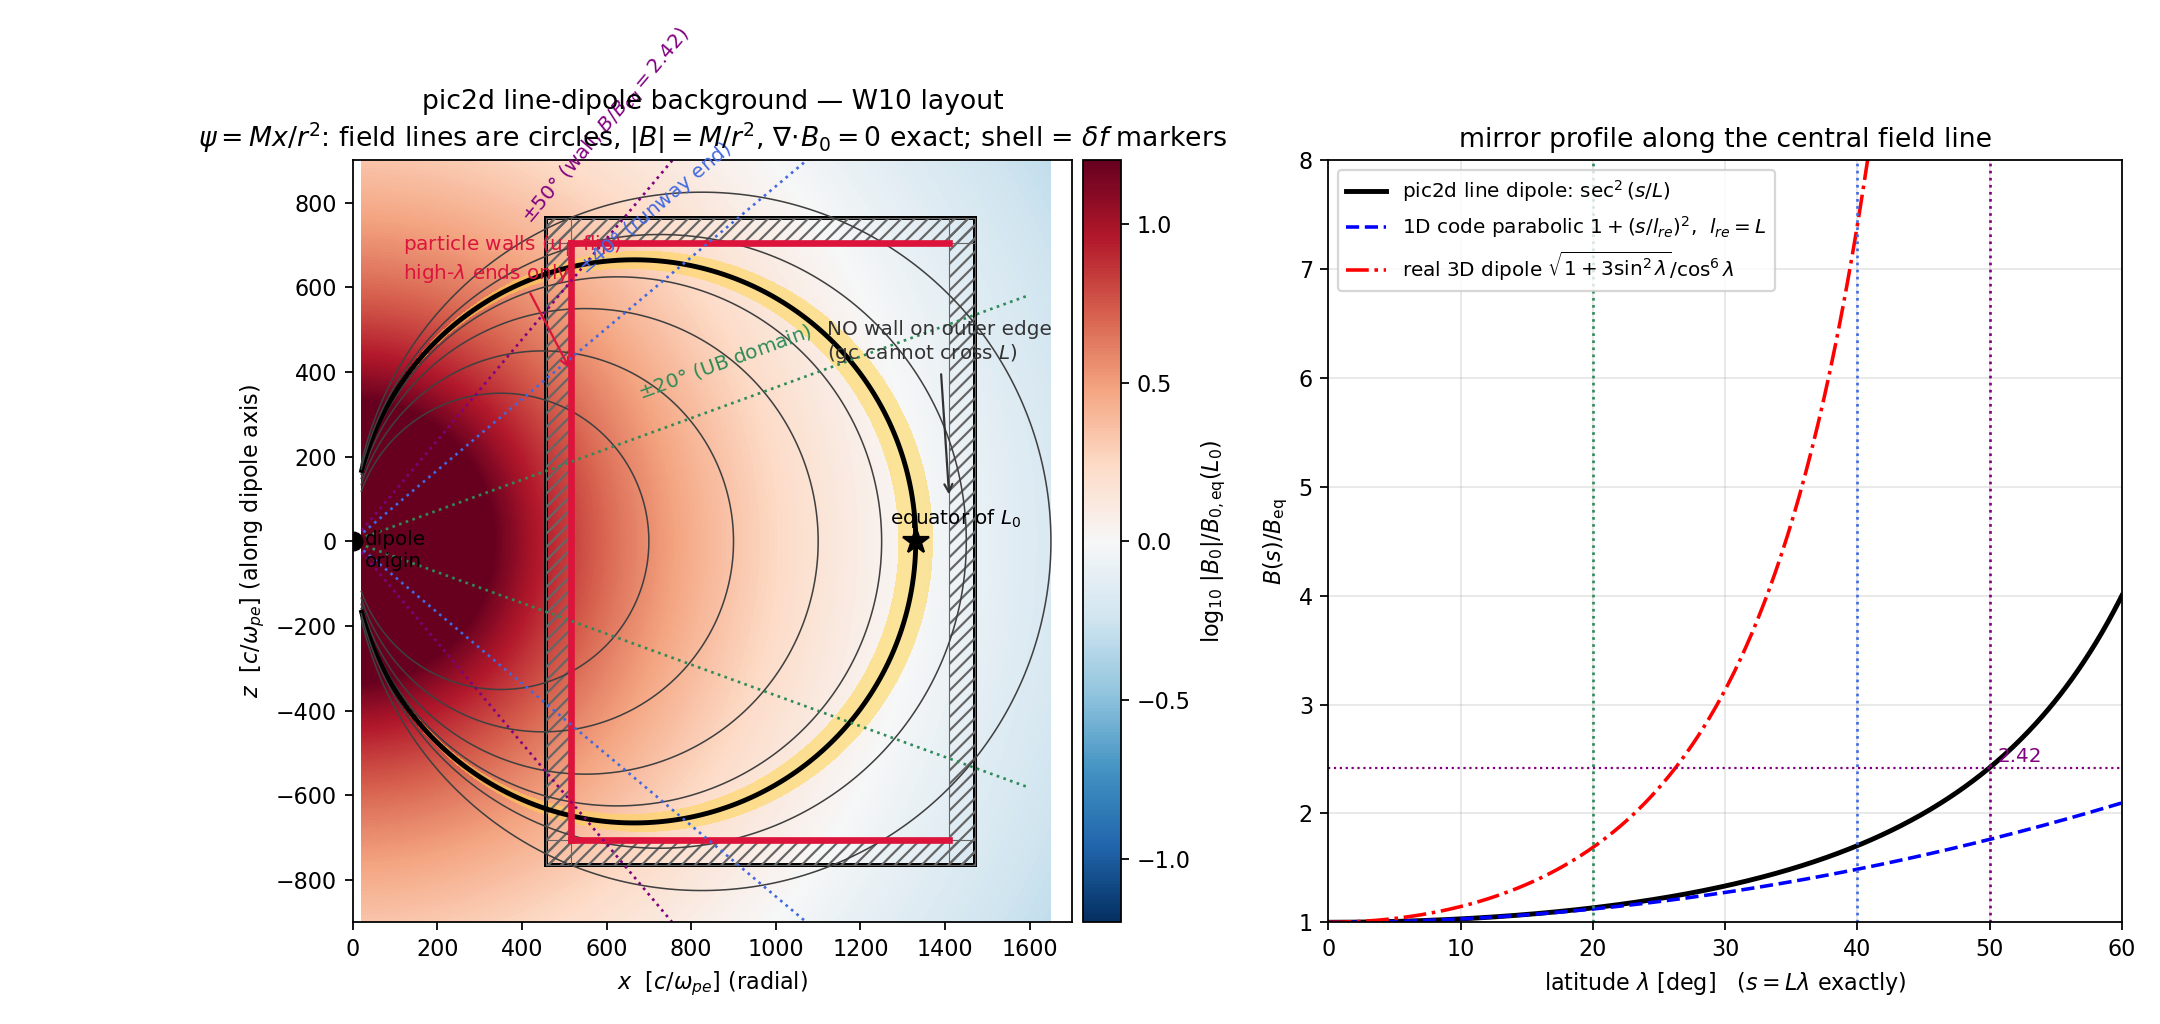
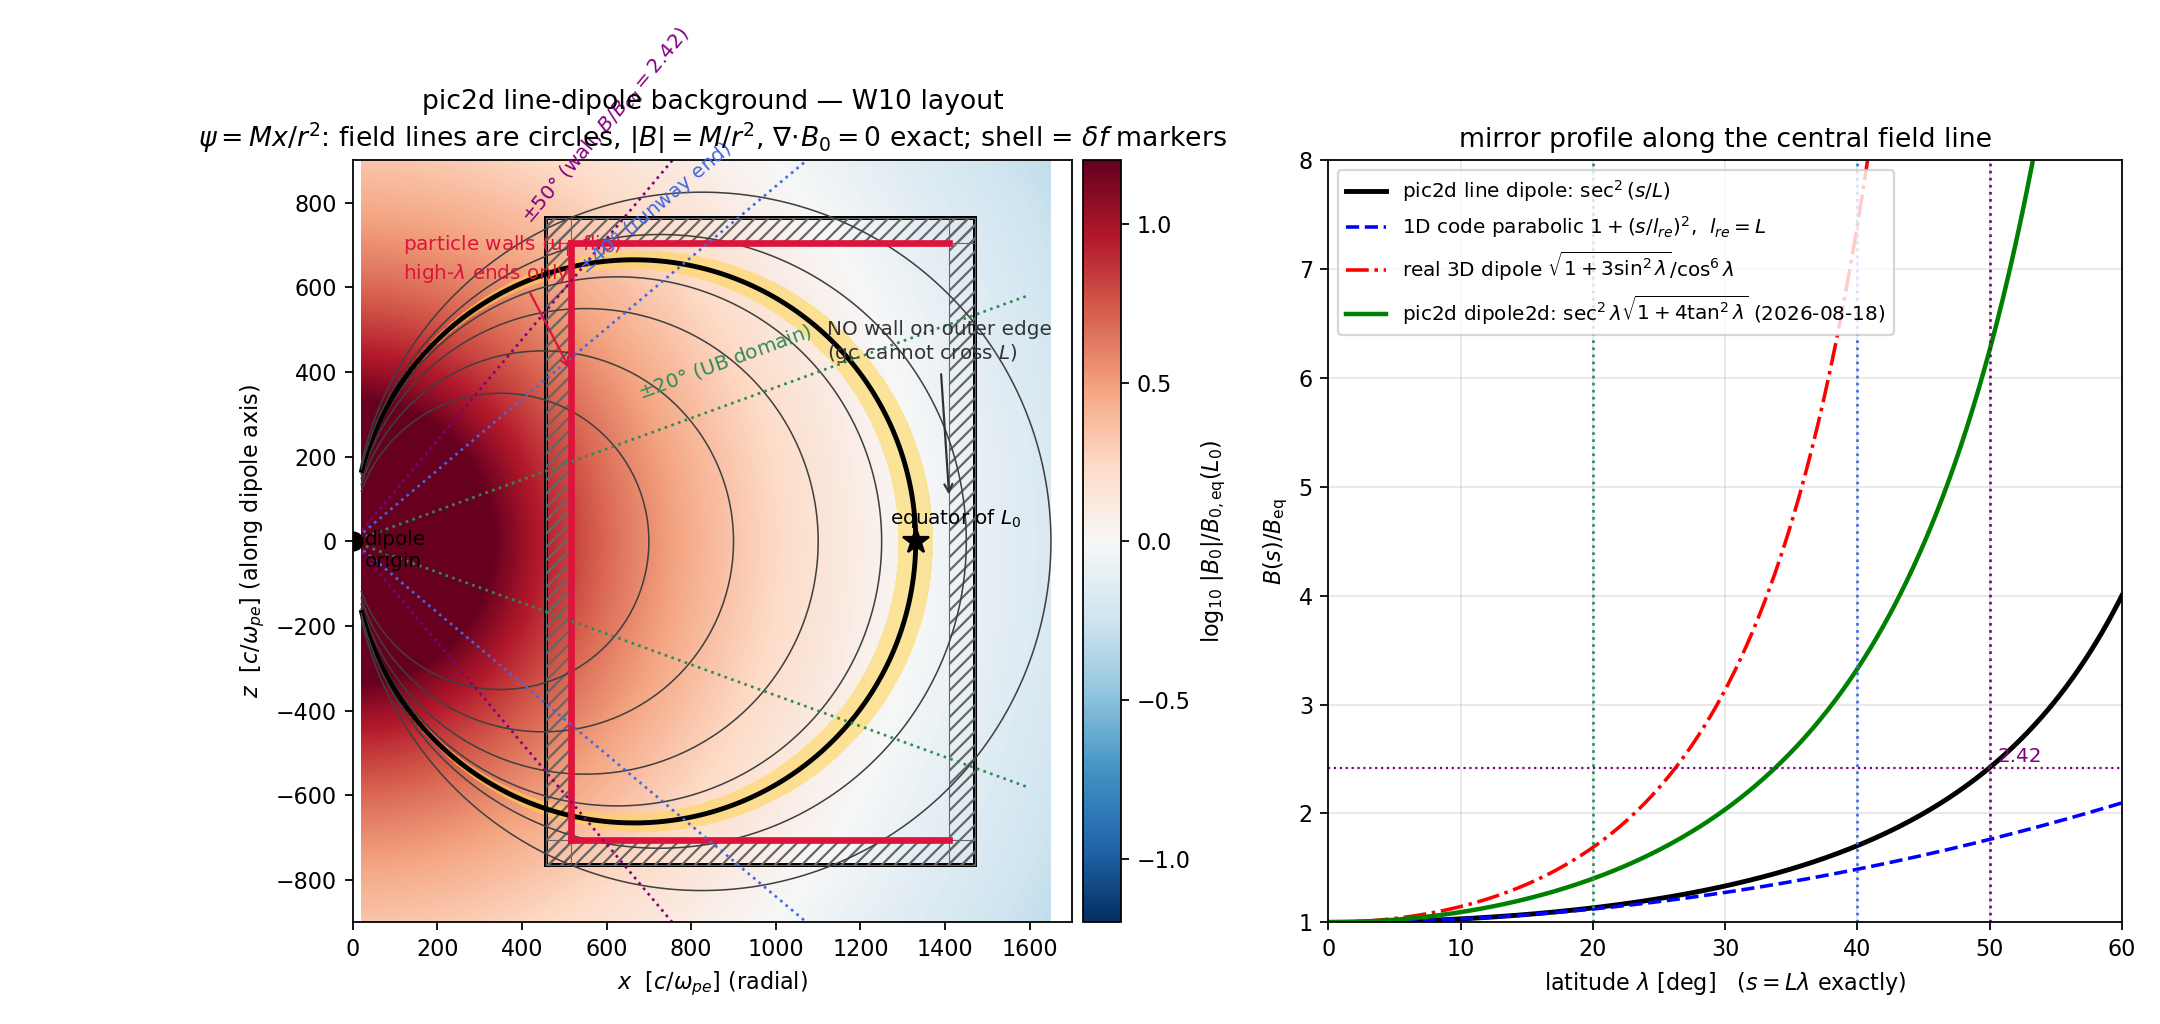
2d-reborn: dipole2d background — true 3D-dipole line shapes, V0 17/17
User direction (2026-08-18): follow the most correct physics, curvature
closer to reality, production = full-f (literature sims are calibration
references, not truth).

dipole2d: psi = (B0eq L0^3/2) x^4/r^6 = g(L), L = r^3/x^2 — level curves
ARE the real dipole's meridional shapes r = L cos^2(lam) (equatorial
curvature radius L/3, not the circle's L/2); along-line mirror profile
B/Beq = sec^2(lam) sqrt(1+4 tan^2(lam)), within ~5% of the true dipole
for lam <= 45 deg (the circle was ~40% low at 30 deg); Beq(L) = B0eq
(L0/L)^3, the real radial scaling. Exactly 2D-solenoidal; carries a
distributed supporting current (Ke-slab precedent; B0 is force-only).

Geometry now profile-dispatched (lshell_of/beq_of/mirror_ratio_of/
line_point_of/arc_s_of) through loader, deck gates, diagnostics line.
V0 extended: 17/17 — on-line |B| formula exact to 1.6e-15, Beq~L^-3
exact, mu secular 4.8e-5, bounce period vs true-metric quadrature
5.4e-5; same 55-deg pitch angle now mirrors at 21.9 deg vs the circle's
35 deg (the realism upgrade, quantified). V4d full-f deck staged
(pre-flight PASS, 4.3 GB).

Claude-Session: https://claude.ai/code/session_01Kcuo25CtyQkYg8oc31o9um

diff --git a/include/pic2d/background2d.hpp b/include/pic2d/background2d.hpp
@@ -44,7 +44,17 @@
 
 namespace arc2d {
 
-enum class B0Prof : int { uniform = 0, tilted = 1, kemirror = 2, linedipole = 3 };
+enum class B0Prof : int { uniform = 0, tilted = 1, kemirror = 2, linedipole = 3,
+                          dipole2d = 4 };
+// dipole2d (2026-08-18 realism upgrade, user-directed): flux function
+//     ψ = (B0eq L0³/2) · x⁴/r⁶  =  g(L),  L = r³/x²,
+// whose level curves ARE the real 3D dipole's meridional line shapes
+// r = L cos²λ (equatorial curvature radius L/3, not the circle's L/2).
+// Along a line: B/B_eq = sec²λ·√(1+4tan²λ) — within ~5% of the true
+// dipole √(1+3sin²λ)/cos⁶λ for λ ≤ 45° (the circle was ~40% low), and
+// B_eq(L) = B0eq (L0/L)³, the real radial scaling. Exactly 2D-solenoidal;
+// NOT curl-free (a distributed supporting current, as in Ke's slab
+// mirror) — harmless: B0 is force-only, the wave equations never see it.
 
 // POD, copied by value into kernels (repo Views pattern).
 struct Background2D {
@@ -72,6 +82,17 @@ ARC2D_HD inline Vec2<Real> b0_field(const Background2D& bg, Real x, Real z) {
             const Real ir4 = Real(1) / (r2 * r2);
             return { Real(-2.0 * bg.M) * x * z * ir4,
                      Real(bg.M) * (x * x - z * z) * ir4 };
+        }
+        case B0Prof::dipole2d: {
+            // ψ = C x⁴/r⁶, C = B0eq L0³/2:
+            // Bx = ∂ψ/∂z = −6C x⁴ z / r⁸ ;  Bz = −∂ψ/∂x = C x³(2x²−4z²)/r⁸
+            // (signs fixed so Bz(eq) = +B0eq(L0/x)³, matching linedipole)
+            const Real r2 = x * x + z * z;
+            const Real ir8 = Real(1) / (r2 * r2 * r2 * r2);
+            const Real C = Real(0.5 * bg.B0eq * bg.L0 * bg.L0 * bg.L0);
+            const Real x3 = x * x * x;
+            return { Real(-6) * C * x3 * x * z * ir8,
+                     C * x3 * (Real(2) * x * x - Real(4) * z * z) * ir8 };
         }
         case B0Prof::kemirror: {
             const Real xt = x - Real(bg.xc), zt = z - Real(bg.zc);
@@ -161,6 +182,68 @@ ARC2D_HD inline void line_point(double L, double lambda, double& x, double& z) {
     const double c = std::cos(lambda);
     x = L * c * c;
     z = L * c * std::sin(lambda);
+}
+
+// ---- profile-dispatched field-line geometry (linedipole | dipole2d) -------
+// Every consumer (loader ζ-mapping, deck gates, diagnostics line) goes
+// through these; adding a background member means extending them, nothing
+// else.
+
+ARC2D_HD inline bool has_lines(const Background2D& bg) {
+    return B0Prof(bg.prof) == B0Prof::linedipole ||
+           B0Prof(bg.prof) == B0Prof::dipole2d;
+}
+
+template <typename Real>
+ARC2D_HD inline Real lshell_of(const Background2D& bg, Real x, Real z) {
+    const Real r2 = x * x + z * z;
+    if (B0Prof(bg.prof) == B0Prof::dipole2d)
+        return r2 * Real(std::sqrt(double(r2))) / (x * x);   // L = r³/x²
+    return r2 / x;                                           // circle: L = r²/x
+}
+
+ARC2D_HD inline double beq_of(const Background2D& bg, double L) {
+    if (B0Prof(bg.prof) == B0Prof::dipole2d) {
+        const double q = bg.L0 / L;
+        return bg.B0eq * q * q * q;               // real L⁻³ scaling
+    }
+    return bg.M / (L * L);
+}
+
+ARC2D_HD inline double mirror_ratio_of(const Background2D& bg, double lam) {
+    const double c = std::cos(lam), t = std::tan(lam);
+    if (B0Prof(bg.prof) == B0Prof::dipole2d)
+        return std::sqrt(1.0 + 4.0 * t * t) / (c * c);
+    return 1.0 / (c * c);
+}
+
+ARC2D_HD inline void line_point_of(const Background2D& bg, double L, double lam,
+                                   double& x, double& z) {
+    const double c = std::cos(lam);
+    if (B0Prof(bg.prof) == B0Prof::dipole2d) {
+        x = L * c * c * c;                        // r = L cos²λ (true dipole shape)
+        z = L * c * c * std::sin(lam);
+    } else {
+        x = L * c * c;
+        z = L * c * std::sin(lam);
+    }
+}
+
+// arc length along the line from the equator to λ (host; Simpson)
+inline double arc_s_of(const Background2D& bg, double L, double lam) {
+    const int n = 64;
+    double s = 0;
+    for (int i = 0; i < n; ++i) {
+        const double a = lam * i / n, b = lam * (i + 1) / n, m = 0.5 * (a + b);
+        auto ds = [&](double u) {
+            const double c = std::cos(u);
+            if (B0Prof(bg.prof) == B0Prof::dipole2d)
+                return L * c * std::sqrt(1.0 + 3.0 * (1 - c * c));
+            return L;                             // circle: ds = L dλ exactly
+        };
+        s += (b - a) / 6.0 * (ds(a) + 4.0 * ds(m) + ds(b));
+    }
+    return s;
 }
 
 }  // namespace arc2d

diff --git a/include/pic2d/deck2d.hpp b/include/pic2d/deck2d.hpp
@@ -145,6 +145,7 @@ inline Deck2D load_deck2d(const std::string& path) {
     const std::string prof = gets(m, "background", "profile", "linedipole");
     if      (prof == "linedipole") d.bg.prof = int(B0Prof::linedipole);
     else if (prof == "kemirror")   d.bg.prof = int(B0Prof::kemirror);
+    else if (prof == "dipole2d")   d.bg.prof = int(B0Prof::dipole2d);
     else if (prof == "tilted")     d.bg.prof = int(B0Prof::tilted);
     else if (prof == "uniform")    d.bg.prof = int(B0Prof::uniform);
     else throw std::runtime_error("deck2d: unknown profile " + prof);
@@ -202,13 +203,13 @@ inline void finalize_deck2d(Deck2D& d) {
     char buf[256];
 
     // ---- box from geometry (linedipole): shell ± absorber ± margin ----
-    if (B0Prof(d.bg.prof) == B0Prof::linedipole) {
+    if (has_lines(d.bg)) {
         double dLmax = 0;
         for (const auto& s : d.species) dLmax = std::max(dLmax, s.shell_dL);
         const double Lin  = d.bg.L0 - 0.5 * dLmax - d.margin;
         const double Lout = d.bg.L0 + 0.5 * dLmax + d.margin;
         double xw, zw;                       // innermost point: high-λ end of Lin
-        line_point(Lin, d.lam_w, xw, zw);
+        line_point_of(d.bg, Lin, d.lam_w, xw, zw);
         d.x0 = std::max(10.0 * d.dx, xw - d.margin);
         d.x1 = Lout + d.margin;
         d.z1 = 0.5 * Lout + d.margin;        // max z on a line is L/2 (at λ=45°)
@@ -230,7 +231,7 @@ inline void finalize_deck2d(Deck2D& d) {
     // §1.2.2): (a) UB — band_max at target WNA, evaluated at the local Ωe
     // of the UB domain |λ| ≤ target_lam; (b) LB corridor — 0.55 Ωe at 30°,
     // out to the runway edge.
-    const double wce_ub = d.bg.B0eq * mirror_ratio(std::min(d.target_lam, d.runway_lam));
+    const double wce_ub = d.bg.B0eq * mirror_ratio_of(d.bg, std::min(d.target_lam, d.runway_lam));
     const double k_ub = detail::whistler_k(d.target_band_max, wce_ub, d.cspeed) /
                         std::cos(d.target_wna);
     const double cpl_ub = 2.0 * M_PI / (k_ub * std::max(d.dx, d.dz));
@@ -240,7 +241,7 @@ inline void finalize_deck2d(Deck2D& d) {
                   d.target_wna * 180 / M_PI, k_ub);
     gate("res/UB", cpl_ub >= 8.0, true, buf);
 
-    const double wce_rw = d.bg.B0eq * mirror_ratio(d.runway_lam);
+    const double wce_rw = d.bg.B0eq * mirror_ratio_of(d.bg, d.runway_lam);
     const double k_lb = detail::whistler_k(0.55, wce_rw, d.cspeed) /
                         std::cos(30.0 * M_PI / 180.0);
     const double cpl_lb = 2.0 * M_PI / (k_lb * std::max(d.dx, d.dz));
@@ -272,8 +273,8 @@ inline void finalize_deck2d(Deck2D& d) {
 
     // ---- absorber strictly outside the runway ---------------------------
     const double absorber_arc = d.absorber_cells * std::max(d.dx, d.dz);
-    const double runway_end_s = d.bg.L0 * d.runway_lam;
-    const double wall_s       = d.bg.L0 * d.lam_w;
+    const double runway_end_s = arc_s_of(d.bg, d.bg.L0, d.runway_lam);
+    const double wall_s       = arc_s_of(d.bg, d.bg.L0, d.lam_w);
     std::snprintf(buf, sizeof buf, "runway ends s=%.0f, wall s=%.0f, absorber %.0f",
                   runway_end_s, wall_s, absorber_arc);
     gate("absorber", runway_end_s + absorber_arc <= wall_s, true, buf);
@@ -296,7 +297,7 @@ inline void finalize_deck2d(Deck2D& d) {
 inline void print_deck2d_report(const Deck2D& d, std::FILE* out = stdout) {
     std::fprintf(out, "pic2d deck report\n");
     std::fprintf(out, "  geometry : L0 = %.1f (l_re), λ_w = %.1f°, mirror ratio at wall %.2f\n",
-                 d.bg.L0, d.lam_w * 180 / M_PI, mirror_ratio(d.lam_w));
+                 d.bg.L0, d.lam_w * 180 / M_PI, mirror_ratio_of(d.bg, d.lam_w));
     std::fprintf(out, "  box      : x [%.0f, %.0f]  z [%.0f, %.0f]  (%d × %d cells, dx %.2f dz %.2f)\n",
                  d.x0, d.x1, d.z0, d.z1, d.nx, d.nz, d.dx, d.dz);
     std::fprintf(out, "  plasma   : ωpe/Ωe(eq) = %.2f, c = %.1f, cold nc = %.3f (%s fluid)\n",

diff --git a/include/pic2d/kinetic2d.hpp b/include/pic2d/kinetic2d.hpp
@@ -147,13 +147,13 @@ __host__ __device__ inline void gc_pos(float x, float z, float uy, float gam,
 __host__ __device__ inline float density_factor(float x, float z, float uy,
                                                 float gam, const KineticCfg& c,
                                                 const Background2D& bg) {
-    if (B0Prof(bg.prof) != B0Prof::linedipole)
+    if (!has_lines(bg))
         return 1.f;                     // uniform/tilted arms: no shell, ζ = 1
     float xg, zg;
     gc_pos(x, z, uy, gam, c, bg, xg, zg);
-    const float Lg = lshell(xg, zg);
-    const float L = lshell(x, z);
-    const float Beq = float(bg.M) / (L * L);
+    const float Lg = lshell_of<float>(bg, xg, zg);
+    const float L = lshell_of<float>(bg, x, z);
+    const float Beq = float(beq_of(bg, L));
     const float b = b0_abs<float>(bg, x, z) / Beq;
     const float Aeq = c.tperp / c.tpar - 1.f;
     const float zeta = 1.f + Aeq * (1.f - 1.f / b);
@@ -200,9 +200,9 @@ static __global__ void k_load(MarkerViews p, KineticCfg c, Background2D bg,
     }
     p.x[i] = x; p.z[i] = z;
     float zeta = 1.f;                   // uniform/tilted arms: no mapping
-    if (B0Prof(bg.prof) == B0Prof::linedipole) {
-        const float L = lshell(x, z);
-        const float Beq = float(bg.M) / (L * L);
+    if (has_lines(bg)) {
+        const float L = lshell_of<float>(bg, x, z);
+        const float Beq = float(beq_of(bg, L));
         const float b = b0_abs<float>(bg, x, z) / Beq;
         zeta = 1.f + (c.tperp / c.tpar - 1.f) * (1.f - 1.f / b);
     }
@@ -276,11 +276,10 @@ static __global__ void k_push_deposit(MarkerViews p, KineticCfg c,
         // gc-form weight equation (header ruling): wave-only, ∂_L dropped;
         // uniform/tilted arms have no mapping: B_eq = local B₀ exactly
         float Beq = B0a;
-        if (B0Prof(bg.prof) == B0Prof::linedipole) {
+        if (has_lines(bg)) {
             float xg, zg;
             gc_pos(x, z, uy, gam0, c, bg, xg, zg);
-            const float Lg = lshell(xg, zg);
-            Beq = float(bg.M) / (Lg * Lg);
+            Beq = float(beq_of(bg, lshell_of<float>(bg, xg, zg)));
         }
         const float dE = -1.f / c.tpar;
         const float dMu = Beq * (1.f / c.tpar - 1.f / c.tperp);

diff --git a/include/pic2d/diag2d.hpp b/include/pic2d/diag2d.hpp
@@ -180,10 +180,10 @@ struct Diag2D {
                     double ds, int nspecies) {
         std::vector<float> hx, hz, hbx, hbz;
         const double lw = lam_w_deg * M_PI / 180.0;
-        for (double s = -L0 * lw; s <= L0 * lw; s += ds) {
-            const double lam = s / L0;
+        const double dlam = ds / L0;
+        for (double lam = -lw; lam <= lw; lam += dlam) {
             double x, z;
-            line_point(L0, lam, x, z);
+            line_point_of(bg, L0, lam, x, z);
             hx.push_back(float(x));
             hz.push_back(float(z));
             const Vec2<double> b = b0_bhat<double>(bg, x, z);

diff --git a/scripts/plot_pic2d_background.py b/scripts/plot_pic2d_background.py
@@ -101,6 +101,9 @@ ax2.plot(np.degrees(lam), Bpar, "b--", lw=1.6,
          label=r"1D code parabolic $1+(s/l_{re})^2$,  $l_{re}=L$")
 ax2.plot(np.degrees(lam), B3d, "r-.", lw=1.6,
          label=r"real 3D dipole $\sqrt{1+3\sin^2\lambda}/\cos^6\lambda$")
+Bd2 = np.sqrt(1 + 4 * np.tan(lam)**2) / np.cos(lam)**2
+ax2.plot(np.degrees(lam), Bd2, "g-", lw=2.0,
+         label=r"pic2d dipole2d: $\sec^2\lambda\sqrt{1+4\tan^2\lambda}$ (2026-08-18)")
 for lamv, c in [(20, "seagreen"), (40, "royalblue"), (50, "purple")]:
     ax2.axvline(lamv, ls=":", color=c, lw=1.2)
 ax2.axhline(2.42, ls=":", color="purple", lw=1)

diff --git a/include/pic2d/sim2d.hpp b/include/pic2d/sim2d.hpp
@@ -63,7 +63,7 @@ struct Sim2D {
         runaway = arc::DeviceArray<unsigned long long>(1);
         runaway.zero();
 
-        const bool dipole = B0Prof(d.bg.prof) == B0Prof::linedipole;
+        const bool dipole = has_lines(d.bg);
         for (const auto& q : d.species) {
             Sp s;
             s.name = q.name;
